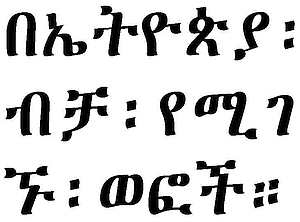
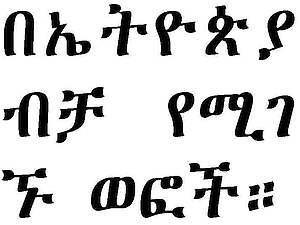
Changes to hyphenation and justification as well as image changes.

diff --git a/src/content/docs/topics/layout/hyphenation.md b/src/content/docs/topics/layout/hyphenation.md
@@ -4,33 +4,27 @@ description: Summary article on hyphenation
 authors: Lorna Priest
 sidebar:
   order: 6230
-lastUpdated: 2025-07-11
+lastUpdated: 2025-08-14
 ---
 
-Hyphenation is often required because text is justified. The two are closely tied together.
+[Hyphenation][hyphenation] is the process of using a hyphen or another punctuation mark to connect two or more words together to form a compound word, or to split a word across lines of text. Hyphenation can improve improve readability by either joining syllables or words, or breaking them apart at appropriate points. Hyphenation is often required when text is [justified][justify]</a>. These two concepts are closely tied together.
 
-Hyphenation is another tool used in Roman typesetting but is not always allowed in other writing systems. Since Arabic does not allow hyphenation, another method for justification is needed: *kashidas* are used to stretch the line. The *kashida* (or tatweel) is typeface-dependent and varies for each kind of Arabic script. Thus, the rules for inserting the *kashida* will be in the font, and the publishing application would need to have the capability of using the font (Milo 2001).
+Interesting hyphenation behaviors occur in some Latin script use, as in the German word “backen” which becomes “bak-ken” when hyphenated (although there are moves for this to be abandoned). Hyphenation rules in the publishing application need to be fully customizable for these types of behaviors.
 
-![Figure 1. Use of kashida](images/6230-1-kashida.png "Figure 1. Use of kashida")
+Hyphenation is generally a tool used in Latin typesetting, but it is not always allowed in other writing systems. 
 
-Another interesting case of different hyphenation methods is Ethiopic. Because Ethiopic was traditionally written using the *Hulet Neteb* there was no need for a hyphenation character. If a line broke at the end of a word you would see the *Hulet Neteb* or other punctuation but, if a line broke in the middle of the word, the reader just saw the word break with no hyphen. In Figure 2, line two is “hyphenated,” line one is not.
+One interesting case of different hyphenation methods is Ethiopic. Because Ethiopic was traditionally written using the *Hulet Neteb* there was no need for a hyphenation character. If a line broke at the end of a word the *Hulet Neteb* or other punctuation would be used. However, if a line broke in the middle of the word, the reader just saw the word break with no hyphen. In Figure 1, line two is “hyphenated,” line one is not.
 
-![Figure 2. “Hyphenation” in line two with use of Hulet Neteb (Ethiopic)](images/6230-2-Ethi.png "Figure 2. “Hyphenation” in line two with use of Hulet
-Neteb (Ethiopic)")
+![“Hyphenation” in line two with use of Hulet Neteb (Ethiopic)](images/6230-1-Ethi.png "Figure 1. Line-breaking in line two with use of Hulet Neteb (Ethiopic)")
 
-![Figure 3. “Hyphenation” in line two with use of white space (Ethiopic)](images/6230-3-Ethi.png "Figure 3. “Hyphenation” in line two with use of white space
-(Ethiopic)")
+![“Hyphenation” in line two with use of white space (Ethiopic)](images/6230-2-Ethi.png "Figure 2. Line-breaking in line two with use of white space (Ethiopic)")
 
-The difficulty now arises that word breaking still sometimes occurs this way but, with software limitations encouraging the use of white space between words (rather than the *Hulet Neteb*), it is difficult to know if there is a complete word at the end of a line or if it is a “broken” word (compare Figure 3 with Figure 2).
-
-Interesting hyphenation behaviors also occur in some Roman script use, as in the German word “backen” which becomes “bak-ken” when hyphenated (although there are moves for this to be abandoned). Hyphenation rules in the publishing application need to be fully customizable for these types of behaviors.
-
-## References
-
-Milo, Thomas. 2001. *“Creating Solutions for Arabic: A Case Study,”* Eighteenth International Unicode Conference, Pre-Conference Tutorials. TC5:6.
+The difficulty now arises that although word breaking still sometimes occurs this way but, with software limitations encouraging the use of white space between words (rather than the *Hulet Neteb*), it is difficult to know if there is a complete word at the end of a line or if it is a “broken” word (compare Figure 2 with Figure 1).
 
 <br>
 
 _Portions of this content first appeared in [Implementing Writing Systems][iws], copyright © 2001 SIL International._
 
 [iws]: https://scripts.sil.org/iws-toc.html
+[hyphenation]: /reference/glossary#hyphen
+[justification]: /reference/glossary#justify

diff --git a/src/content/docs/topics/layout/justification.md b/src/content/docs/topics/layout/justification.md
@@ -4,18 +4,18 @@ description: Description and examples of layout direction
 authors: Lorna Priest
 sidebar:
     order: 6220
-lastUpdated: 2025-07-11
+lastUpdated: 2025-08-14
 ---
+
+[Justification][justification] is the alignment of text along both the left and right margins so that all the lines are the same length. In Latin and other similar scripts, justification is usually handled by applying [hyphenation][hyphenation], or by adjusting the spacing between words and characters on each line. However, not all scripts can use hyphenation. Two examples are the Tibetan and Arabic scripts.
 
 Tibetan does not have visible word breaks and so the only variable white space is after the _shad_ (&#x0F0D;). In Figure 1 one can see that lines four, five and six are “completed” (or justified) with a series of syllable markers (&#x0F0B;) while the other lines are justified via the variable space after each _shad_.
 
-![Figure 1. Syllable markers help “justify” the line (Tibetan)](images/6220-1-Tibt.png)
+![Minzu Tushuguan bian (Library of Nationalities). 1984. “Zangwen dianji mulu: wenjilei zimu” (Bibliography of Ancient Tibetan books and documents). Vol. 1, p. 1. Chengdu: Sichuan Minority Press.](images/6220-1-Tibt.png "Figure 1. Syllable markers help “justify” the line (Tibetan)")
 
-**Figure 1. Syllable markers help “justify” the line (Tibetan)**
+Another interesting example is Arabic. Since Arabic does not allow hyphenation, another method for justification is needed: *kashidas* are used to stretch the line. The *kashida* (or tatweel) is typeface-dependent and varies for each kind of Arabic script. Thus, the rules for inserting the *kashida* will be in the font, and the publishing application requires the capability of using the font.
 
-## Figures
-
-1. Minzu Tushuguan bian (Library of Nationalities). 1984. “Zangwen dianji mulu: wenjilei zimu” (Bibliography of Ancient Tibetan books and documents). Vol. 1, p. 1. Chengdu: Sichuan Minority Press.
+![Use of kashida](images/6220-2-kashida.png "Figure 2. Use of kashida")
 
 <br>
 
@@ -23,3 +23,5 @@ _Portions of this content first appeared in [Implementing Writing Systems][iws],
 
 [iws]: https://scripts.sil.org/iws-toc.html
 
+[hyphenation]: /reference/glossary#hyphen
+[justification]: /reference/glossary#justify
